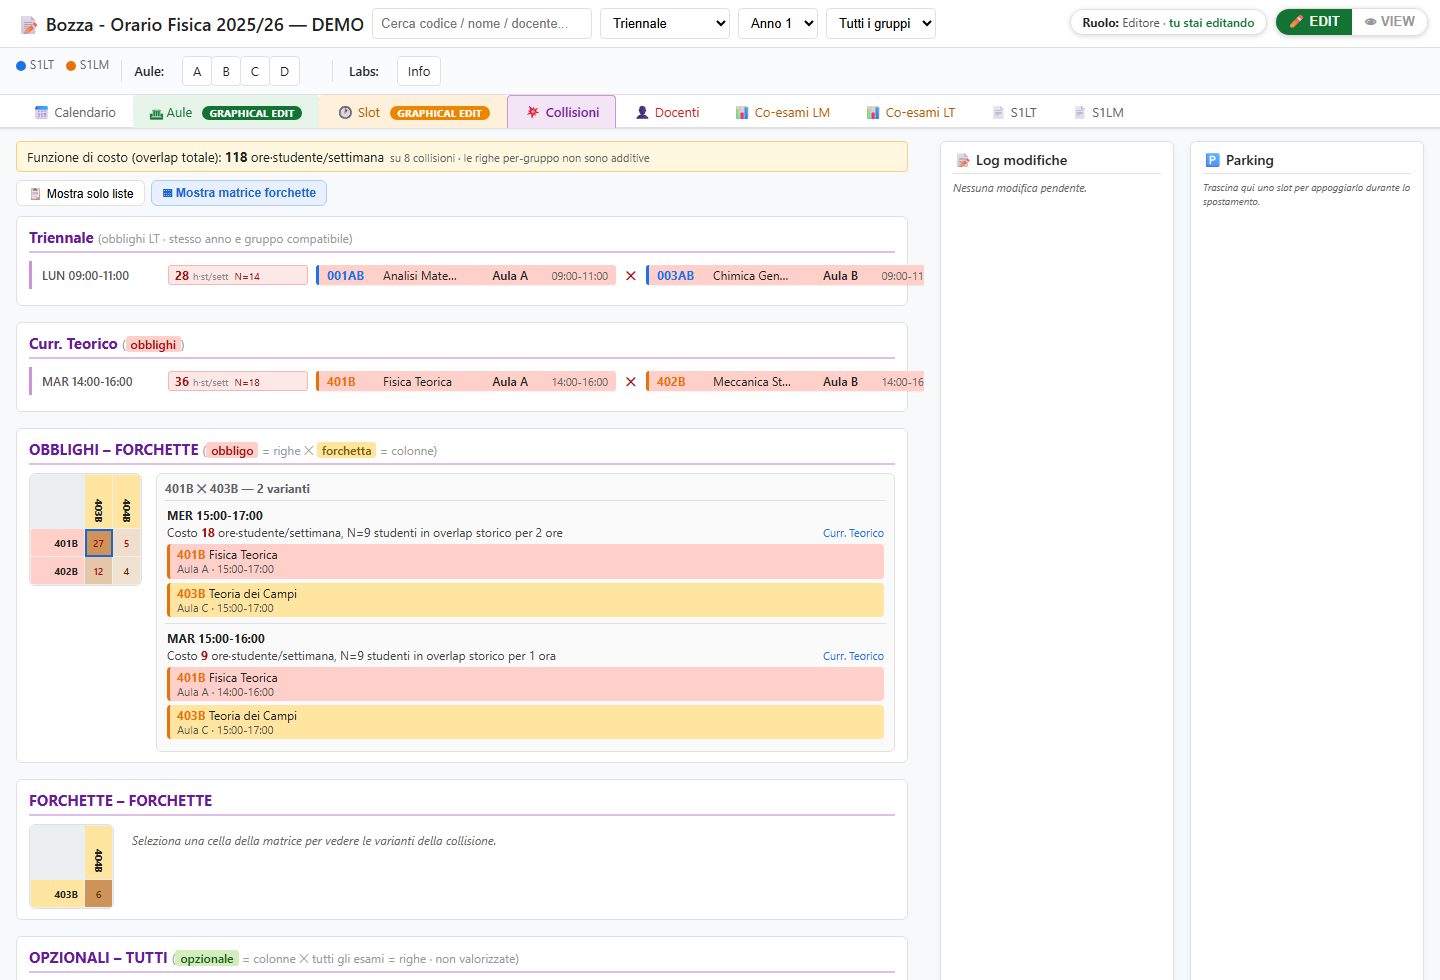
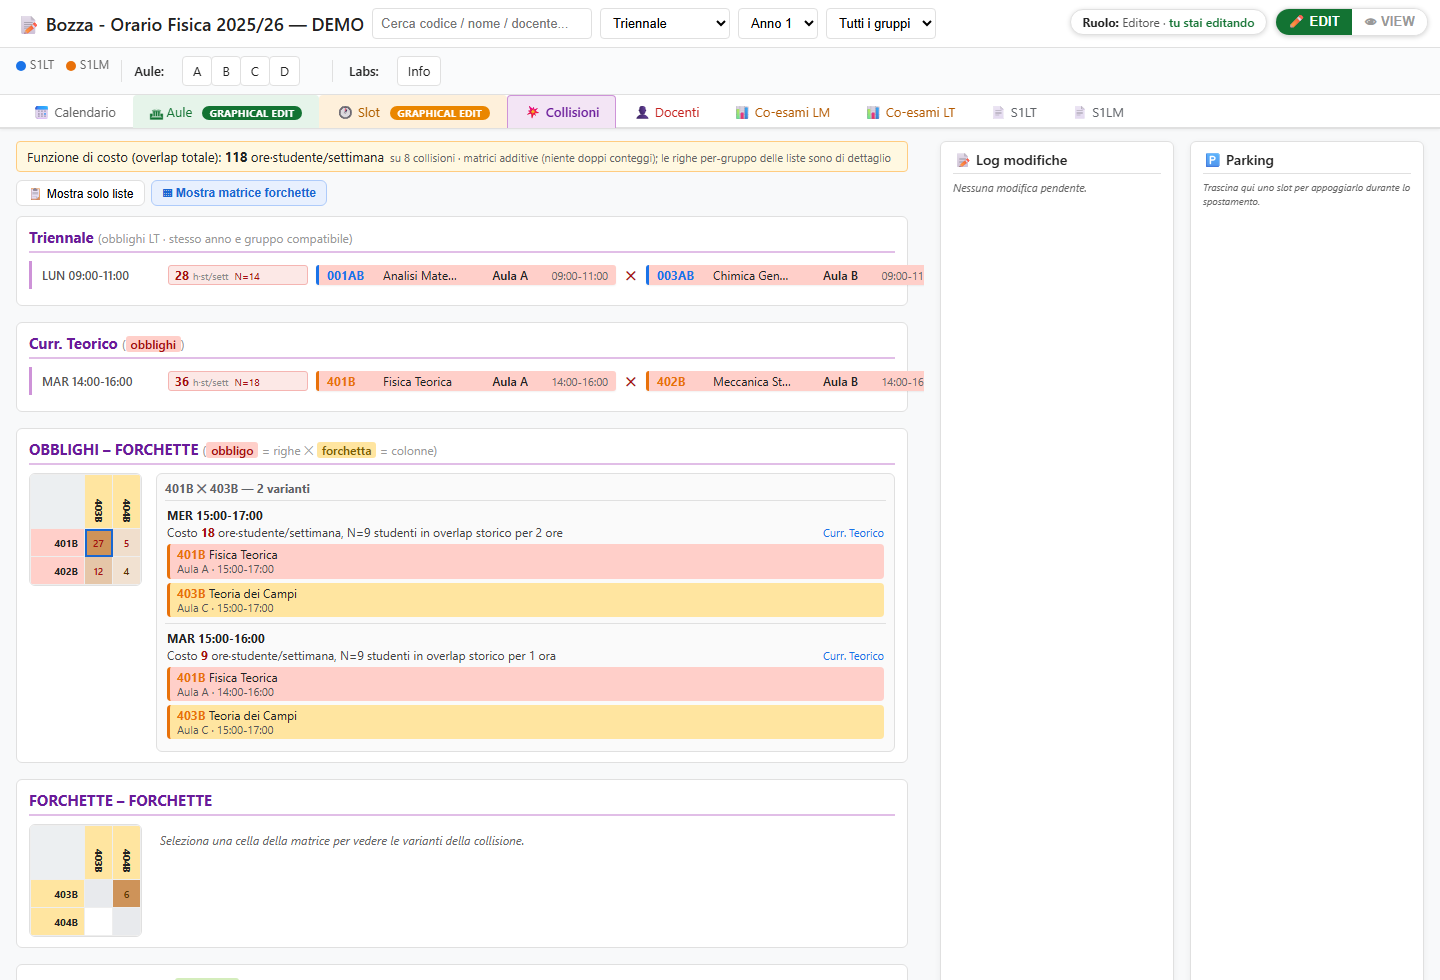
Collisioni FF a matrice quadrata + tab Slot per la Consultazione
FF (forchette-forchette)
- La matrice ora è QUADRATA: stessi codici su righe e colonne, valorizzata solo
  nella sopra-diagonale (la prima colonna e l'ultima riga restano senza valori).
  Rimosso il drop di righe/colonne vuote: ogni codice compare su entrambi gli assi.

Accesso Consultazione (utente generico)
- Oltre al Calendario vede ora anche il tab Slot, in SOLA LETTURA ma con selezione
  degli slot (clic → info dettagliate/collisioni); niente drag/resize.
- Gli altri tab (Aule, Collisioni, Docenti, Co-esami, mirror) restano nascosti.
- I controlli di edit slot "Nuovo slot" e "Cestino" ora sono nascosti a TUTTI i
  non-editor (Revisore e Consultazione): body:not(.role-editor) .slot-template/.slot-trash.
- Non si nasconde più l'intera barra tab al public (ora ha 2 tab).

- sim_collisions: aggiornato il test FF (matrice quadrata 4×4, solo 2 celle
  valorizzate). 83/83.
- MANUAL: livelli di accesso (Consultazione = Calendario + Slot), descrizione FF
  quadrata; screenshot 09 (FF quadrata) e 12 (public con tab Slot) rigenerati.

Changed region(s): [[0.0, 0.8265, 0.625, 1.0], [0.3125, 0.1531, 0.625, 0.1837]]

diff --git a/src/index.html b/src/index.html
@@ -924,6 +924,9 @@
   .cs-foot button:hover { background: #f1f3f4; }
   /* Permessi: auditor/public (non-editor) → niente Log modifiche, Carica/Salva, Parking */
   body:not(.role-editor) #logMod, body:not(.role-editor) #parking { display: none; }
+  /* Creazione/eliminazione slot (Nuovo slot / Cestino): solo l'editor in edit.
+     Revisore e Consultazione vedono il tab Slot ma in sola lettura (selezione sì). */
+  body:not(.role-editor) .slot-template, body:not(.role-editor) .slot-trash { display: none; }
   /* Visibilità "in redazione" (utente generico): header visibile ma controlli
      disattivati, viste nascoste, messaggio al posto del calendario. */
   #draftNotice { display: none; }
@@ -1300,7 +1303,8 @@ var _editActive = !!EDIT_MODE;
   // Ruolo EFFETTIVO della UI: editor col lock → 'editor'; editor SENZA lock →
   // 'auditor' (sola lettura, tutti i tab); altrimenti il ruolo vero.
   const _effRole = EDIT_MODE ? 'editor' : (_isRealEditor ? 'auditor' : ((typeof ROLE !== 'undefined' && ROLE) || 'public'));
-  const _showTabs = (_effRole !== 'public');   // editor/revisore vedono tutti i tab
+  const _isPublic = (_effRole === 'public');   // Consultazione: vede Calendario + Slot
+  const _showTabs = !_isPublic;                // editor/revisore: tutti i tab
   document.body.classList.add('role-' + _effRole);
   // "In redazione" (solo utente generico): header visibile ma disattivato + messaggio
   // al posto del calendario (CSS body.draft). I dati arrivano già svuotati dal server.
@@ -1311,20 +1315,17 @@ var _editActive = !!EDIT_MODE;
     if (auleTab) auleTab.style.display = 'none';
     const auleView = document.getElementById('viewRooms');
     if (auleView) auleView.style.display = 'none';
-    // Pubblico: un solo tab → nascondi l'intera barra tab.
-    const tabsBar = document.querySelector('.view-tabs');
-    if (tabsBar) tabsBar.style.display = 'none';
+    // NB: la barra tab NON si nasconde: il public vede Calendario + Slot.
   } else if (auleTab && EDIT_MODE) {  // badge solo per gli editor
     auleTab.classList.add('edit-on');
     auleTab.innerHTML = '🏛 Aule <span class="edit-tag">GRAPHICAL EDIT</span>';
     auleTab.title = 'Modalità edit attiva per ' + (USER_EMAIL || 'utente loggato');
   }
+  // Il tab Slot è visibile a TUTTI, anche al public/Consultazione: sola lettura,
+  // ma con SELEZIONE degli slot e info dettagliate (drag/resize solo in edit).
+  // Solo l'editor in modalità edit ha il badge "GRAPHICAL EDIT".
   const slotsTab = document.querySelector('.view-tab[data-view="slots"]');
-  if (!_showTabs) {
-    if (slotsTab) slotsTab.style.display = 'none';
-    const slotsView = document.getElementById('viewSlots');
-    if (slotsView) slotsView.style.display = 'none';
-  } else if (slotsTab && EDIT_MODE) {
+  if (slotsTab && EDIT_MODE) {
     slotsTab.classList.add('edit-on-orange');
     slotsTab.innerHTML = '🕐 Slot <span class="edit-tag orange">GRAPHICAL EDIT</span>';
     slotsTab.title = 'Modalità edit attiva per ' + (USER_EMAIL || 'utente loggato');
@@ -1384,6 +1385,9 @@ var _editActive = !!EDIT_MODE;
       anchor = v;
     });
   })();
+  // Public/Consultazione: oltre ad Aule/Collisioni/ecc. nascondi anche i tab
+  // "mirror" dei fogli — restano solo Calendario + Slot.
+  if (_isPublic) document.querySelectorAll('.view-tab.tab-mirror').forEach(tb => { tb.style.display = 'none'; });
 
   // Popover suggerimenti sul tab Collisioni: hover sulla cella costo (.cl-cost).
   (function setupCollisionPopover() {
@@ -2495,20 +2499,13 @@ var _editActive = !!EDIT_MODE;
       // righe/colonne rimaste interamente vuote per un triangolo compatto.
       let _idx = null;
       if (!bip) {
-        // _idx = posizione nell'ordine CONDIVISO (righe=colonne) calcolato sull'insieme
-        // COMPLETO. Resta valido dopo il filtro perché togliamo solo righe/colonne
-        // INTERE: l'ordine relativo (e quindi il confronto _idx[c] > _idx[r]) non cambia.
+        // Matrice QUADRATA: gli STESSI codici su righe e colonne, ma valorizzata
+        // SOLO nella sopra-diagonale (la metà inferiore è il duplicato speculare).
+        // NON si tolgono righe/colonne: ogni codice compare su entrambi gli assi
+        // (così la prima colonna e l'ultima riga restano senza celle valorizzate).
+        // _idx = posizione nell'ordine condiviso; la cella (r,c) è "sopra" se
+        // _idx[c] > _idx[r].
         _idx = {}; rows.forEach((x, i) => { _idx[x] = i; });
-        const _shown = (r, c) => { const cl = cellAt(r, c); return !!(cl && cl.pos && _idx[c] > _idx[r]); };
-        // Un solo passaggio basta: se _shown(r,c) allora r entra in _dr e c entra in
-        // _dc, quindi ogni riga/colonna tenuta ha almeno una cella mostrata (niente
-        // linee vuote residue).
-        const _dr = rows.filter(r => cols.some(c => _shown(r, c)));
-        const _dc = cols.filter(c => rows.some(r => _shown(r, c)));
-        rows = _dr; cols = _dc;
-        if (!rows.length || !cols.length) {
-          return '<div class="cl-section"><h3>' + title + '</h3><div class="cl-none">— nessuna collisione con costo —</div></div>';
-        }
       }
       const vc = data.vincoloColors || {};
       const rowBg = bip ? (vc.OBB || '#ffcfc9') : (vc.FOR || '#ffe5a0');

diff --git a/scripts/sim_collisions.js b/scripts/sim_collisions.js
@@ -334,9 +334,10 @@ check('Per-gruppo: drill-down accorpa le varianti (1 clash, non 2)', (function (
 })());
 check('Per-gruppo: banner conta 1 collisione (non 2)', gout.indexOf('su 1 collision') !== -1);
 
-// ===== Triangolo FF SPARSO: F1-F2 e F3-F4 collidono, nient'altro. Verifica che
-// il filtro single-pass NON lasci righe/colonne vuote residue (la metà inferiore
-// e la diagonale sono nascoste, ma niente linee completamente vuote). =====
+// ===== FF matrice QUADRATA: F1-F2 e F3-F4 collidono, nient'altro. Gli stessi
+// codici compaiono su entrambi gli assi (4×4), ma è valorizzata SOLO la
+// sopra-diagonale (2 celle: F1>F2, F3>F4). La prima colonna e l'ultima riga
+// restano senza celle valorizzate, ma le intestazioni ci sono comunque. =====
 data.equiv = {};
 data.pds = [{ name: 'PS', codes: ['F1', 'F2', 'F3', 'F4'], vincoloByCode: { F1: 'FOR', F2: 'FOR', F3: 'FOR', F4: 'FOR' } }];
 data.sessions = [
@@ -349,12 +350,12 @@ _collView = 'matrix';
 renderCollisions();
 const sout = captures['collisionsBody'];
 const sff = cellsOf(sout, 'ff');
-check('FF sparse: esattamente 2 celle (F1>F2, F3>F4)', sff.length === 2 && sff.indexOf('F1>F2') !== -1 && sff.indexOf('F3>F4') !== -1);
+check('FF quadrata: solo 2 celle valorizzate (sopra-diagonale: F1>F2, F3>F4)', sff.length === 2 && sff.indexOf('F1>F2') !== -1 && sff.indexOf('F3>F4') !== -1);
 // Isola la sezione FF in modo robusto: è il chunk che contiene celle data-k="ff".
 const ffSec = (sout.split('<div class="cl-section">').find(s => s.indexOf('data-k="ff"') !== -1)) || '';
 // NB: /cx-ch"/ per non matchare anche "cx-chl" (lo span interno dell'header).
 const nRh = (ffSec.match(/cx-rh"/g) || []).length, nCh = (ffSec.match(/cx-ch"/g) || []).length;
-check('FF sparse: nessuna riga/colonna vuota residua (2 righe-header, 2 colonne-header)', nRh === 2 && nCh === 2);
+check('FF quadrata: stessi codici su entrambi gli assi (4 righe, 4 colonne)', nRh === 4 && nCh === 4);
 
 // ===== Bipartita OBB-FOR speculare: AA è OBB nel PdS PA e FOR nel PdS PB; BB è
 // FOR in PA e OBB in PB. Lo stesso clash AA-BB compare sia in (AA-obbligo,

diff --git a/MANUAL.md b/MANUAL.md
@@ -121,7 +121,7 @@ email è sulla stessa riga dell'etichetta, le altre nelle righe sotto con B vuot
 |---|---|---|
 | **WebEditors** | redattori dell'orario | tutto: vede tutti i tab, **drag&drop**, **Carica/Salva**, badge GRAPHICAL EDIT |
 | **WebAuditors** *(o `WebRevisori` / `WebReviewers`)* | **Revisori** | vedono **tutti i tab** ma in **sola lettura** (niente drag, niente Carica/Salva) |
-| *(chiunque altro)* | utente UniPi generico | vede **solo il Calendario**, con i filtri (un Piano di Studi / anno alla volta) — non l'intera Magistrale né LT+LM insieme |
+| *(chiunque altro)* | utente UniPi generico (**Consultazione**) | vede il **Calendario** e il tab **Slot** (gli altri tab no). Lo Slot è in **sola lettura** ma gli slot restano **selezionabili**: cliccandoli si vedono le **informazioni dettagliate** (collisioni/capienza); niente drag/resize né creazione/eliminazione slot. Con i filtri (un Piano di Studi / anno alla volta) |
 
 > Retro-compatibilità: l'etichetta dei revisori può essere **`WebAuditors`**,
 > **`WebRevisori`** o **`WebReviewers`** (tutte valide). Se il CONFIG non ha
@@ -132,7 +132,7 @@ email è sulla stessa riga dell'etichetta, le altre nelle righe sotto con B vuot
 
 Dal gsheet, menu **🕒 Orario → 👁 Visibilità** con due voci a spunta (`●` = attiva):
 
-- **Pubblicato** (default) — l'utente generico vede il Calendario.
+- **Pubblicato** (default) — l'utente generico vede il Calendario e il tab Slot.
 - **In redazione** — l'utente generico vede l'**intestazione** (titolo + controlli
   disattivati, così sa di essere nel posto giusto) e, al posto del calendario, il
   messaggio **"Calendario in fase di redazione"** (i dati dell'orario non gli vengono
@@ -165,7 +165,7 @@ viene mostrata né inviata all'utente.
 
 ![Accesso Revisore (sola lettura) — tutti i tab](docs/img/11-auditor.png)
 
-![Accesso pubblico — solo Calendario](docs/img/12-public.png)
+![Accesso pubblico (Consultazione) — Calendario + tab Slot](docs/img/12-public.png)
 
 ---
 
@@ -232,9 +232,10 @@ cella costo** appare un popover con gli spostamenti che ridurrebbero il costo.
 
 **Vista Matrice** (default): due matrici **codice × codice**, una per
 **OBBLIGHI–FORCHETTE** (obblighi sulle righe, forchette sulle colonne) e una per
-**FORCHETTE–FORCHETTE**. Quest'ultima è simmetrica, perciò ne viene mostrata
-**solo la parte sopra la diagonale** (la metà inferiore è il duplicato speculare):
-ogni coppia compare una volta sola. L'ordine dei codici non conta (la collisione
+**FORCHETTE–FORCHETTE**. Quest'ultima è una **matrice quadrata** con gli **stessi
+codici su righe e colonne**, ma valorizzata **solo nella parte sopra la diagonale**
+(la metà inferiore è il duplicato speculare; la prima colonna e l'ultima riga
+restano quindi senza valori): ogni coppia compare una volta sola. L'ordine dei codici non conta (la collisione
 è la stessa); il **giorno** invece sì: variazioni su giorni/orari diversi sono
 *varianti distinte*. Ogni cella mostra il **costo totale** `N × ore` (somma delle
 varianti), con heatmap ambra e **rosso se N≥5**. Vengono riportate **solo le
